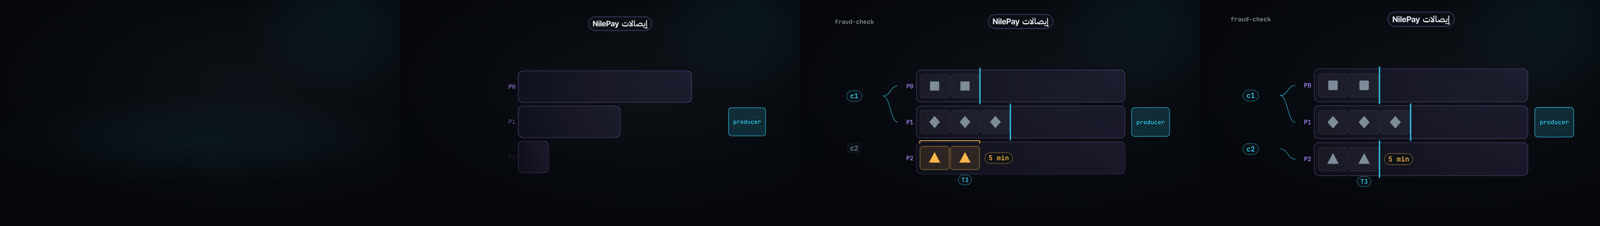
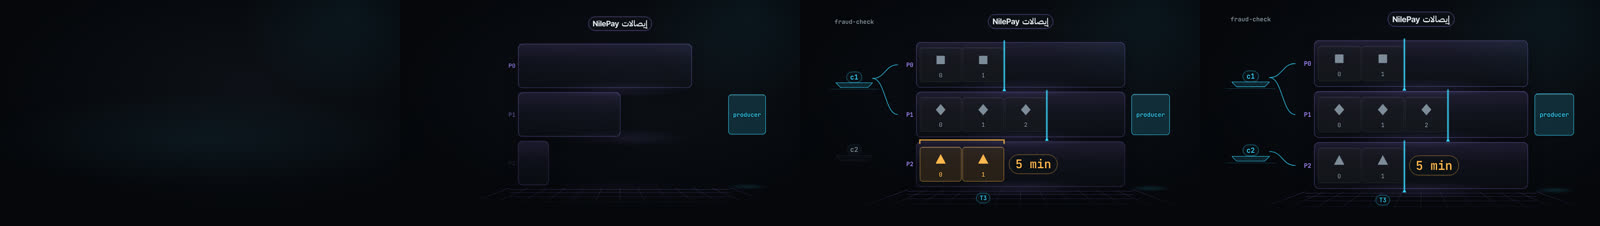
P7 struct-b: PartitionLanes finished (glass-slab partition lanes on lit floor, raised tiles with offsets, boats, bloomed lag bracket, rebalance re-wire; snap PASS det 0 qa 0, baselines pending-critic; perf lite 0.078 / standard 0.100 / hero 0.096 box s/frame; Arabic QA pass)
Claude-Session: https://claude.ai/code/session_01VrU9wxU8GmuhdhWAAHnnQ8

diff --git a/studio/src/components/PartitionLanes/PartitionLanes.tsx b/studio/src/components/PartitionLanes/PartitionLanes.tsx
@@ -13,6 +13,11 @@
 //    morph length), the boat wiring re-draws to the new owners, then reading resumes. lag(lane, value): a warn bracket spans the
 //    unread tail of the lane and the spoken value (data-contract `ref`) lands on it.
 //  - Text: topic and group on plates (auto-fit, 28 px floor); partition names, consumer ids and keys are Latin / code isolates.
+//    Cell numbers are the structural offsets of the log (0, 1, 2 ... per lane; an index, not a data value), shown only while the
+//    lanes are tall enough for 28 px digits (<= 4 lanes). The only data numbers are the `lag` values, each with its data-contract ref.
+//  - Depth and light (ADR-003 LK-F): lanes are glass slabs (acrylic top edge, violet under-light pool on the floor, a perspective
+//    floor grid under the last lane), cells are raised tiles with a drop shadow, the offset marker is the brightest line on
+//    screen, consumers are boats on a hull, the lag bracket is a bloomed warn bracket. 2.5D only, no WebGL.
 import React from 'react';
 import {random} from 'remotion';
 import {C, SIZE} from '../../tokens';
@@ -104,13 +109,17 @@ export const PartitionLanesView: React.FC<DcProps<Props>> = ({props, ctx}) => {
   const prodW = 210;
   const x0 = consW + (consW ? 60 : 0) + nameW;
   const x1 = w - prodW - 24;
-  const gapY = P > 6 ? 10 : 18;
-  const laneH = Math.min(P <= 3 ? 150 : 120, (h - hdr - gapY * (P - 1)) / P);
-  const yTop = hdr + Math.max(0, (h - hdr - P * laneH - gapY * (P - 1)) / 2);
+  const gapY = P > 6 ? 10 : 22;
+  const floorH = P <= 4 ? 70 : 0; // room for the floor grid under the last lane
+  const laneH = Math.min(P <= 3 ? 210 : P <= 4 ? 170 : P <= 6 ? 130 : 120, (h - hdr - floorH - gapY * (P - 1)) / P);
+  const yTop = hdr + Math.max(0, (h - hdr - floorH - P * laneH - gapY * (P - 1)) / 2);
   const yOf = (l: number) => yTop + l * (laneH + gapY);
+  const yEnd = yOf(P - 1) + laneH;
   const maxLen = Math.max(4, ...tl.count);
   const cw = Math.min(laneH * 0.95, (x1 - x0 - 24) / maxLen);
   const cellX = (o: number) => x0 + 14 + o * cw;
+  const cellH = laneH * 0.76;
+  const showNo = laneH >= 160 && cw >= 64 && tl.msgs.length <= 24;
   const prod = {x: w - prodW / 2 - 8, y: yTop + (P * laneH + gapY * (P - 1)) / 2};
   // ---- state at t ----
   const laneOpen = (l: number) => prog(t, ctx.at + f24(2 * l, ctx.fps), morph, ease.camera);
@@ -125,12 +134,40 @@ export const PartitionLanesView: React.FC<DcProps<Props>> = ({props, ctx}) => {
   const lastAssign = [...tl.assigns].reverse().find((a) => a.t <= t)!;
   const prevAssign = tl.assigns[Math.max(0, tl.assigns.indexOf(lastAssign) - 1)];
   const wireQ = lastAssign.t > -1e8 ? prog(t, lastAssign.t, morph, ease.camera) : 1;
+  const floorOn = prog(t, ctx.at, morph, ease.camera);
+  const boatW = consW * 0.62;
+  const hd = Math.min(16, gapY - 5); // marker head fits the gap under the lane
   return (
     <div style={{position: 'absolute', left: ctx.box.x, top: ctx.box.y, width: w, height: h, ...layerStyle(ctx, true)}}>
+      {/* light: violet under-light pool per lane (the lanes glow from below), signal pool under the producer */}
+      {Array.from({length: P}, (_, l) => (
+        <Pool key={`pl${l}`} x={(x0 + x1) / 2} y={yOf(l) + laneH + 6} r={(x1 - x0) * 0.5} color={C.violet} a={0.2 * laneOpen(l) * k} squash={0.12} />
+      ))}
+      <Pool x={prod.x} y={yEnd + 8} r={prodW * 0.7} color={C.signal} a={0.16 * floorOn * k} squash={0.14} />
+      {/* perspective floor grid under the last lane (depth), fades away from the lit base */}
+      {floorH ? (
+        <svg width={w} height={h} style={{position: 'absolute', inset: 0, overflow: 'visible', opacity: floorOn}}>
+          <defs>
+            <linearGradient id={`${ctx.id}-fl`} gradientUnits="userSpaceOnUse" x1="0" y1={yEnd + 14} x2="0" y2={yEnd + floorH + 40}>
+              <stop offset="0" stopColor={C.violet} stopOpacity={0.5} />
+              <stop offset="1" stopColor={C.violet} stopOpacity={0} />
+            </linearGradient>
+          </defs>
+          {Array.from({length: 5}, (_, i) => {
+            const d = Math.pow((i + 1) / 5, 1.6) * (floorH + 26);
+            return <line key={`fh${i}`} x1={x0 - 40} x2={x1 + 40} y1={yEnd + 14 + d} y2={yEnd + 14 + d} stroke={`url(#${ctx.id}-fl)`} strokeWidth={1.5} />;
+          })}
+          {Array.from({length: 13}, (_, j) => {
+            const q = (j - 6) / 6;
+            const xa = (x0 + x1) / 2 + q * ((x1 - x0) / 2 + 40);
+            return <line key={`fv${j}`} x1={xa} x2={(x0 + x1) / 2 + q * ((x1 - x0) / 2 + 40) * 1.5} y1={yEnd + 14} y2={yEnd + floorH + 40} stroke={`url(#${ctx.id}-fl)`} strokeWidth={1.5} />;
+          })}
+        </svg>
+      ) : null}
       {/* topic header */}
       <Lbl id={`${ctx.id}:topic`} text={props.topic} x={(x0 + x1) / 2} y={hdr / 2 - 6} maxW={x1 - x0} size={SIZE.body} color={C.ink} plate accent={C.violet} fx={ctx.fx} opacity={prog(t, ctx.at, lblN)} />
-      {inPause ? <Pool x={(x0 + x1) / 2} y={prod.y} r={(x1 - x0) * 0.6} color={C.violet} a={0.18 * (1 - prog(t, inPause[0], morph))} squash={0.5} /> : null}
-      {/* lanes */}
+      {inPause ? <Pool x={(x0 + x1) / 2} y={prod.y} r={(x1 - x0) * 0.6} color={C.violet} a={0.22 * (1 - prog(t, inPause[0], morph))} squash={0.5} /> : null}
+      {/* lanes: glass slabs with an acrylic top edge */}
       {Array.from({length: P}, (_, l) => {
         const q = laneOpen(l);
         if (q <= 0) return null;
@@ -146,9 +183,9 @@ export const PartitionLanesView: React.FC<DcProps<Props>> = ({props, ctx}) => {
                 width: (x1 - x0) * q,
                 height: laneH,
                 borderRadius: Math.min(22, laneH / 3),
-                border: `1.5px solid ${C.violet}${hex(orphan ? 0.4 : 0.7)}`,
-                background: `linear-gradient(90deg, ${C.violet}${hex(0.05)}, ${C.violet}${hex(0.11)})`,
-                boxShadow: `0 0 ${ctx.fx.glowInner * 1.6}px ${C.violet}${hex(0.18)}`,
+                border: `1.5px solid ${C.violet}${hex(orphan ? 0.4 : 0.72)}`,
+                background: `linear-gradient(180deg, ${C.violet}${hex(0.14)} 0%, ${C.violet}${hex(0.05)} 40%, ${C.ground}${hex(0.5)} 100%)`,
+                boxShadow: `inset 0 1px 0 ${C.ink}${hex(0.14)}, 0 ${Math.round(laneH * 0.16)}px ${Math.round(laneH * 0.28)}px ${C.void}${hex(0.55)}, 0 0 ${ctx.fx.glowInner * 1.6}px ${C.violet}${hex(0.2)}`,
               }}
             />
             <Lbl id={`${ctx.id}:p${l}`} text={`P${l}`} x={x0 - 14} y={y + laneH / 2} align="right" maxW={nameW - 8} size={SIZE.labelMin} color={C.violet} opacity={q} role="code" />
@@ -163,14 +200,28 @@ export const PartitionLanesView: React.FC<DcProps<Props>> = ({props, ctx}) => {
             const is = lastAssign.owner[l] === c.id;
             const op = is && was ? 1 : is ? wireQ : was ? 1 - wireQ : 0;
             if (op <= 0.01) return null;
-            const a = {x: consX + consW / 2 - 4, y: consY(c.i)};
+            const a = {x: consX + boatW / 2, y: consY(c.i)};
             const b = {x: x0 - nameW + 4, y: yOf(l) + laneH / 2};
             const dx = (b.x - a.x) * 0.5;
             const on = prog(t, ctx.at + tl.openN, lblN);
-            return <GlowPath key={`${c.id}-${l}`} d={cPath(a, {x: a.x + dx, y: a.y}, {x: b.x - dx, y: b.y}, b)} color={C.signal} width={2} fx={ctx.fx} k={0.5 * k} opacity={op * on * 0.85} draw={is && !was ? wireQ : undefined} />;
+            return <GlowPath key={`${c.id}-${l}`} d={cPath(a, {x: a.x + dx, y: a.y}, {x: b.x - dx, y: b.y}, b)} color={C.signal} width={2.5} fx={ctx.fx} k={0.6 * k} opacity={op * on * 0.9} draw={is && !was ? wireQ : undefined} />;
           }),
         )}
-        {/* message cells */}
+        {/* consumer boats: hull + wake under the id plate */}
+        {consumers.map((c) => {
+          const on = prog(t, ctx.at + tl.openN + f24(2 * c.i, ctx.fps), lblN);
+          const owns = ownerNow.some((o) => o === c.id);
+          const col = owns ? C.signal : C.grid;
+          const y = consY(c.i) + 22;
+          const bob = Math.sin((t - ctx.at) * 0.09 + c.i * 1.7) * 2;
+          return (
+            <g key={`boat${c.id}`} opacity={on} transform={`translate(0 ${bob.toFixed(2)})`}>
+              <path d={`M ${consX - boatW / 2} ${y} L ${consX + boatW / 2} ${y} L ${consX + boatW / 2 - 22} ${y + 22} L ${consX - boatW / 2 + 22} ${y + 22} Z`} fill={`${col}${hex(0.14)}`} stroke={col} strokeWidth={2} strokeLinejoin="round" />
+              <path d={`M ${consX - boatW / 2 - 26} ${y + 30} L ${consX + boatW / 2 + 26} ${y + 30}`} stroke={col} strokeOpacity={0.3} strokeWidth={2} strokeLinecap="round" />
+            </g>
+          );
+        })}
+        {/* message cells: raised tiles */}
         {tl.msgs.map((m, i) => {
           if (t < m.born || laneOpen(m.lane) < 1) return null;
           const q = prog(t, m.born, tl.slide, ease.arrive);
@@ -182,19 +233,24 @@ export const PartitionLanesView: React.FC<DcProps<Props>> = ({props, ctx}) => {
           const orphan = !ownerNow[m.lane] && consumers.length > 0;
           const lag = lagOn(m.lane);
           const warn = !isRead && (orphan || !!lag) && q >= 1;
-          const stroke = q < 1 ? (m.produced ? C.signal : C.warn) : warn ? C.warn : isRead ? `${C.ink}${hex(0.16)}` : `${C.ink}${hex(0.3)}`;
-          const fill = q < 1 ? `${m.produced ? C.signal : C.warn}${hex(0.22)}` : warn ? `${C.warn}${hex(0.12)}` : isRead ? `${C.ink}${hex(0.05)}` : `${C.panel}${hex(0.95)}`;
+          const accent = m.produced ? C.signal : C.warn;
+          const stroke = q < 1 ? accent : warn ? C.warn : isRead ? `${C.ink}${hex(0.16)}` : `${C.ink}${hex(0.36)}`;
+          const fill = q < 1 ? `${accent}${hex(0.24)}` : warn ? `${C.warn}${hex(0.13)}` : isRead ? `${C.ink}${hex(0.05)}` : `${C.panel}${hex(0.96)}`;
           const glyph = isRead ? C.ink3 : warn ? C.warn : C.ink;
-          const cy = yy + laneH / 2;
+          const top = yy + laneH * 0.12;
+          const cy = showNo ? top + cellH * 0.36 : yy + laneH / 2;
+          const gs = Math.min(cw, cellH) * (showNo ? 0.34 : 0.42);
           return (
             <g key={i}>
-              {q < 1 ? <rect x={x + cw * 0.5} y={cy - 5} width={Math.max(0, prod.x - x - cw * 0.5) * 0.8} height={10} rx={5} fill={m.produced ? C.signal : C.warn} opacity={0.35 * (1 - q)} /> : null}
-              <rect x={x + 3} y={yy + laneH * 0.14} width={cw - 6} height={laneH * 0.72} rx={Math.min(12, cw / 5)} fill={fill} stroke={stroke} strokeWidth={1.5} />
-              {props.keyed ? <KeyGlyph k={m.key} x={x + cw / 2} y={cy} s={Math.min(cw, laneH) * 0.42} color={glyph} /> : <circle cx={x + cw / 2} cy={cy} r={Math.min(cw, laneH) * 0.1} fill={glyph} />}
+              {q < 1 ? <rect x={x + cw * 0.5} y={yy + laneH / 2 - 5} width={Math.max(0, prod.x - x - cw * 0.5) * 0.8} height={10} rx={5} fill={accent} opacity={0.4 * (1 - q)} /> : null}
+              <rect x={x + 3} y={top + 5} width={cw - 6} height={cellH} rx={Math.min(12, cw / 5)} fill={C.void} opacity={0.5 * q} />
+              <rect x={x + 3} y={top} width={cw - 6} height={cellH} rx={Math.min(12, cw / 5)} fill={fill} stroke={stroke} strokeWidth={1.5} />
+              {!isRead && q >= 1 ? <rect x={x + 8} y={top + 1.5} width={cw - 16} height={2} rx={1} fill={C.ink} opacity={0.22} /> : null}
+              {props.keyed ? <KeyGlyph k={m.key} x={x + cw / 2} y={cy} s={gs} color={glyph} /> : <circle cx={x + cw / 2} cy={cy} r={gs * 0.24} fill={glyph} />}
             </g>
           );
         })}
-        {/* offset markers */}
+        {/* offset markers: the brightest line on screen (signal bar with a head under the lane) */}
         {Array.from({length: P}, (_, l) => {
           if (!ownerNow[l] || laneOpen(l) < 1) return null;
           const x = cellX(read[l]) - 1;
@@ -202,27 +258,41 @@ export const PartitionLanesView: React.FC<DcProps<Props>> = ({props, ctx}) => {
           const on = prog(t, ctx.at + tl.openN, lblN);
           return (
             <g key={`o${l}`} opacity={on}>
-              <GlowPath d={`M ${x.toFixed(1)} ${(y - 8).toFixed(1)} L ${x.toFixed(1)} ${(y + laneH + 8).toFixed(1)}`} color={C.signal} width={4} fx={ctx.fx} k={k} />
+              <GlowPath d={`M ${x.toFixed(1)} ${(y - 6).toFixed(1)} L ${x.toFixed(1)} ${(y + laneH + 4).toFixed(1)}`} color={C.signal} width={4} fx={ctx.fx} k={1.3 * k} />
+              <path d={`M ${x.toFixed(1)} ${(y + laneH + 2).toFixed(1)} L ${(x + 9).toFixed(1)} ${(y + laneH + 2 + hd).toFixed(1)} L ${(x - 9).toFixed(1)} ${(y + laneH + 2 + hd).toFixed(1)} Z`} fill={C.signal} />
             </g>
           );
         })}
-        {/* lag brackets */}
+        {/* lag brackets (bloomed) */}
         {Array.from({length: P}, (_, l) => {
           const g = lagOn(l);
           if (!g) return null;
           const q = prog(t, g.t, presetFrames('arrive', ctx.fps));
           const a = cellX(read[l]) + 2;
           const b = cellX(tl.count[l]) - 2;
-          const y = yOf(l) - 6;
+          const y = yOf(l) - 8;
           if (b - a < 8) return null;
-          return <path key={`g${l}`} d={`M ${a.toFixed(1)} ${(y + 14).toFixed(1)} L ${a.toFixed(1)} ${y.toFixed(1)} L ${b.toFixed(1)} ${y.toFixed(1)} L ${b.toFixed(1)} ${(y + 14).toFixed(1)}`} fill="none" stroke={C.warn} strokeWidth={3.5} strokeLinejoin="round" opacity={q} />;
+          return <GlowPath key={`g${l}`} d={`M ${a.toFixed(1)} ${(y + 16).toFixed(1)} L ${a.toFixed(1)} ${y.toFixed(1)} L ${b.toFixed(1)} ${y.toFixed(1)} L ${b.toFixed(1)} ${(y + 16).toFixed(1)}`} color={C.warn} width={4} fx={ctx.fx} k={0.9 * k} opacity={q} />;
         })}
-        {/* producer */}
+        {/* producer: emitter box with a light stub into the lanes */}
         <g opacity={prog(t, ctx.at + f24(4, ctx.fps), lblN)}>
           <rect x={prod.x - prodW / 2 + 16} y={prod.y - laneH * 0.45} width={prodW - 32} height={laneH * 0.9} rx={14} fill={`${C.signal}${hex(0.16)}`} stroke={C.signal} strokeWidth={2} />
+          <rect x={prod.x - prodW / 2 + 22} y={prod.y - laneH * 0.45 + 2} width={prodW - 44} height={2} rx={1} fill={C.ink} opacity={0.3} />
         </g>
       </svg>
       <Lbl id={`${ctx.id}:prod`} text="producer" x={prod.x} y={prod.y} maxW={prodW - 44} size={SIZE.labelMin} color={C.signal} opacity={prog(t, ctx.at + f24(4, ctx.fps), lblN)} role="code" />
+      {/* offsets inside the cells (structural index per lane; only while the lanes are tall enough for 28 px digits) */}
+      {showNo
+        ? tl.msgs.map((m, i) => {
+            if (t < m.born || laneOpen(m.lane) < 1) return null;
+            const q = prog(t, m.born, tl.slide, ease.arrive);
+            const x = lerp(prod.x - cw / 2, cellX(m.off), q);
+            const yy = lerp(prod.y - laneH / 2, yOf(m.lane), q);
+            const isRead = m.off < read[m.lane];
+            const warn = !isRead && q >= 1 && ((!ownerNow[m.lane] && consumers.length > 0) || !!lagOn(m.lane));
+            return <Lbl key={`n${i}`} id={`${ctx.id}:n${i}`} text={String(m.off)} x={x + cw / 2} y={yy + laneH * 0.12 + cellH * 0.8} maxW={cw - 12} size={SIZE.labelMin} color={warn ? C.warn : isRead ? C.ink3 : C.ink2} opacity={q} role="data" />;
+          })
+        : null}
       {/* lag values */}
       {Array.from({length: P}, (_, l) => {
         const g = lagOn(l);
@@ -230,7 +300,7 @@ export const PartitionLanesView: React.FC<DcProps<Props>> = ({props, ctx}) => {
         const q = prog(t, g.t, presetFrames('impact', ctx.fps, true), ease.impact);
         const a = cellX(read[l]);
         const b = cellX(tl.count[l]);
-        const y = yOf(l) - 10;
+        const y = yOf(l) - 12;
         // the value lands in the empty lane right of the unread tail (never over the neighbouring lane's cells)
         const lx = cellX(tl.count[l]) + 22;
         const room = x1 - lx - 12;
@@ -245,7 +315,7 @@ export const PartitionLanesView: React.FC<DcProps<Props>> = ({props, ctx}) => {
             align={inLane ? 'left' : 'center'}
             valign={inLane ? 'center' : 'bottom'}
             maxW={inLane ? room : Math.max(160, b - a + 120)}
-            size={SIZE.label}
+            size={inLane ? SIZE.sub : SIZE.label}
             color={C.warn}
             plate
             accent={C.warn}
@@ -260,14 +330,14 @@ export const PartitionLanesView: React.FC<DcProps<Props>> = ({props, ctx}) => {
         if (!m.keyLabel || t < m.born) return null;
         const q = prog(t, m.born, tl.slide, ease.arrive);
         const x = lerp(prod.x, cellX(m.off) + cw / 2, q);
-        const y = lerp(prod.y - laneH / 2, yOf(m.lane), q) + laneH + 4;
+        const y = lerp(prod.y - laneH / 2, yOf(m.lane), q) + laneH + 30;
         return <Lbl key={`k${i}`} id={`${ctx.id}:k${i}`} text={m.keyLabel} x={Math.min(w - 90, x)} y={Math.min(h - 40, y)} valign="top" maxW={220} size={SIZE.labelMin} color={C.signal} plate accent={C.signal} fx={ctx.fx} opacity={prog(t, m.born, lblN)} />;
       })}
       {/* consumers (boats) */}
       {consumers.map((c) => {
         const op = prog(t, ctx.at + tl.openN + f24(2 * c.i, ctx.fps), lblN);
         const owns = ownerNow.some((o) => o === c.id);
-        return <Lbl key={c.id} id={`${ctx.id}:c${c.id}`} text={c.id} x={consX} y={consY(c.i)} maxW={consW - 12} size={SIZE.label} color={owns ? C.signal : C.ink3} plate accent={owns ? C.signal : C.grid} fx={ctx.fx} opacity={op} role="code" />;
+        return <Lbl key={c.id} id={`${ctx.id}:c${c.id}`} text={c.id} x={consX} y={consY(c.i) - 6} maxW={boatW - 12} size={SIZE.label} color={owns ? C.signal : C.ink3} plate accent={owns ? C.signal : C.grid} fx={ctx.fx} opacity={op} role="code" />;
       })}
       {groups.length ? <Lbl id={`${ctx.id}:grp`} text={groups.join(' · ')} x={consX} y={hdr / 2 - 6} maxW={consW + 40} size={SIZE.labelMin} color={C.ink2} opacity={prog(t, ctx.at + tl.openN, lblN)} /> : null}
     </div>

diff --git a/docs/p7/catalog_status/struct-b.md b/docs/p7/catalog_status/struct-b.md
@@ -4,3 +4,4 @@
 |---|---|---|
 | GitGraph | implemented | snap PASS det 0 qa 0 (pending-critic); perf box s/frame lite 0.056 / standard 0.071 / hero 0.066; qa arabic PASS; branching light-graph, messages on the outer side of each lane in two alternating rows, no numbers on screen |
 | StackHeap | implemented | snap PASS det 0 qa 0 (pending-critic); perf box s/frame lite 0.073 / standard 0.091 / hero 0.091; qa arabic PASS (OCR 2/2); stack of glass slabs on a lit perspective floor (running frame has a light cursor bar), heap capsules float above it, refs path-draw with travelling light pulses, aliased object pulses, orphan turns amber then crit sparks on collect; push/pop/collect actions; demo = CH-08 S01/S03 (a, b -> one object; f(x) acc), no numbers on screen; 2.5D only, no WebGL
+| PartitionLanes | implemented | snap PASS det 0 qa 0 (pending-critic); perf box s/frame lite 0.078 / standard 0.100 / hero 0.096; qa arabic PASS (OCR 1/1); Kafka topic as glass-slab partition lanes on a lit perspective floor (violet under-light), raised message tiles with structural offsets, signal offset markers, consumer boats wired to the lanes they own, bloomed warn lag bracket with the spoken value (ref s:S4:P19:0090), rebalance pause then re-wire; produce/rebalance/lag actions; demo = the six NilePay receipts (d:6.19:5), 5 min freshness SLA; 2.5D only, no WebGL |
